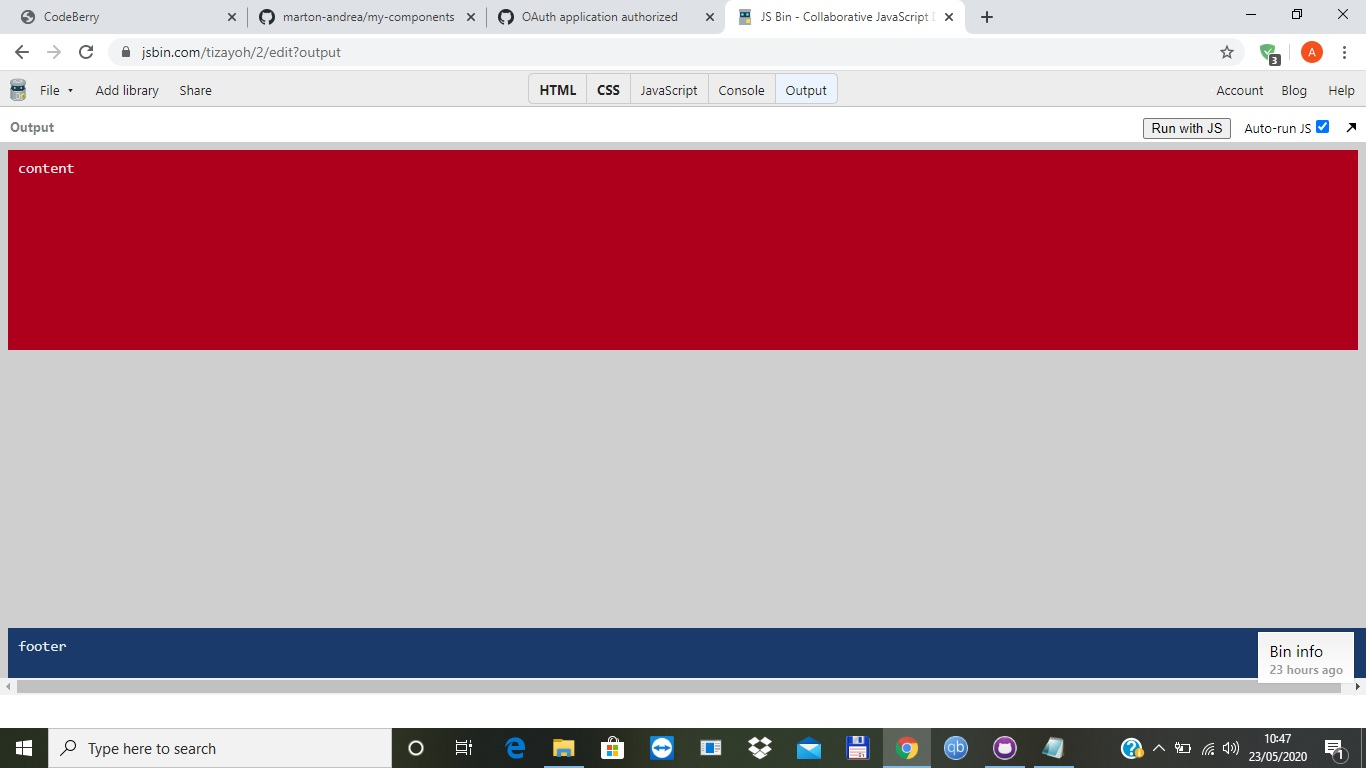
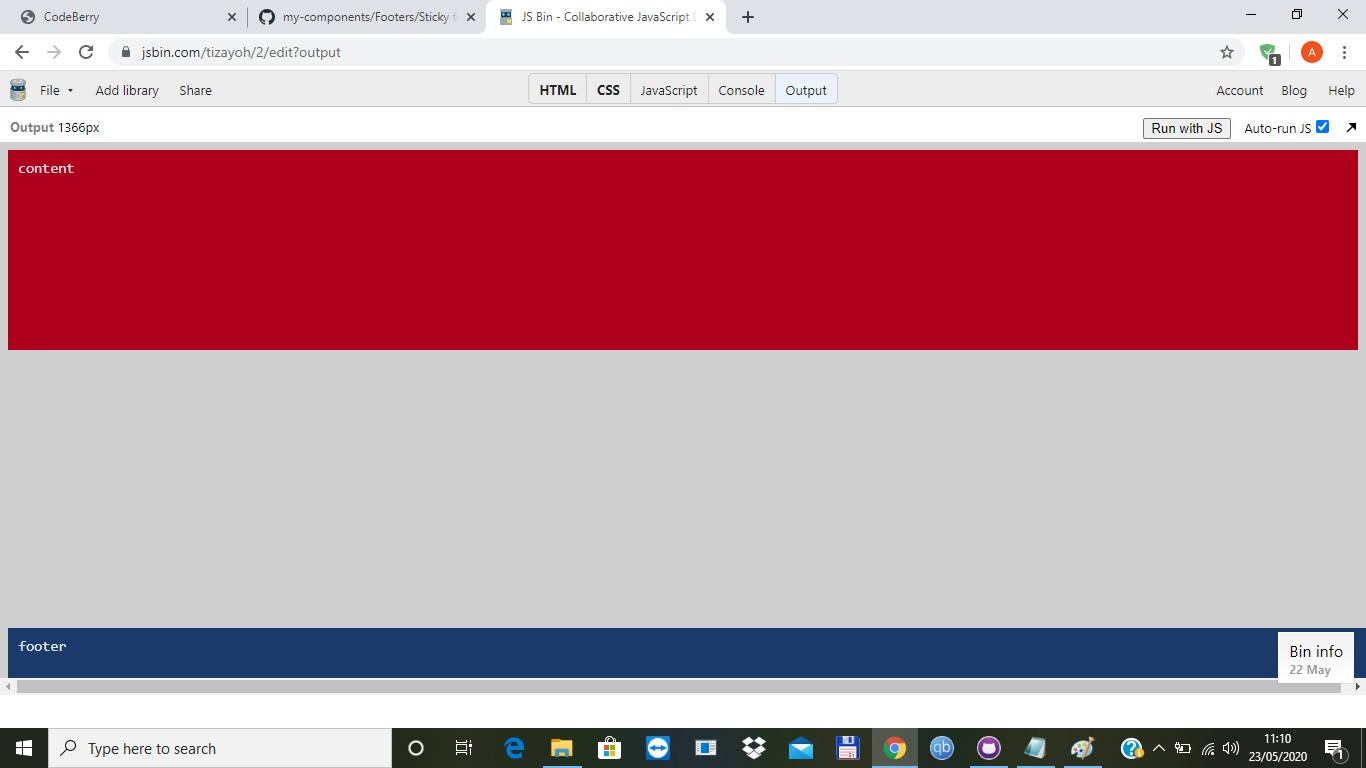
Footer
Sticky footer 2 calc () megoldas

diff --git a/Footers/Sticky footer calc ()/Footer calc ().html b/Footers/Sticky footer calc ()/Footer calc ().html
@@ -1,0 +1,16 @@
+<!DOCTYPE html>
+<html>
+<head>
+  <meta charset="utf-8">
+  <meta name="viewport" content="width=device-width">
+  <title>Sticky footer 2 calc () megoldas</title>
+</head>
+<body>
+ <main class="content">
+    <span>content</span>
+  </main>
+  <footer class="footer">
+    <span>footer</span>
+  </footer>
+</body>
+</html>

diff --git a/Footers/Sticky footer calc ()/Footer calc ().css b/Footers/Sticky footer calc ()/Footer calc ().css
@@ -1,0 +1,9 @@
+.content {
+  min-height: calc(100vh - 50px);
+  background-color: red;
+}
+
+.footer {
+  height: 50px;
+  background-color: yellow;
+}

diff --git a/Footers/Sticky footer calc ()/README.md b/Footers/Sticky footer calc ()/README.md
@@ -1,0 +1,1 @@
+Sticky footer 2 calc () megoldas
